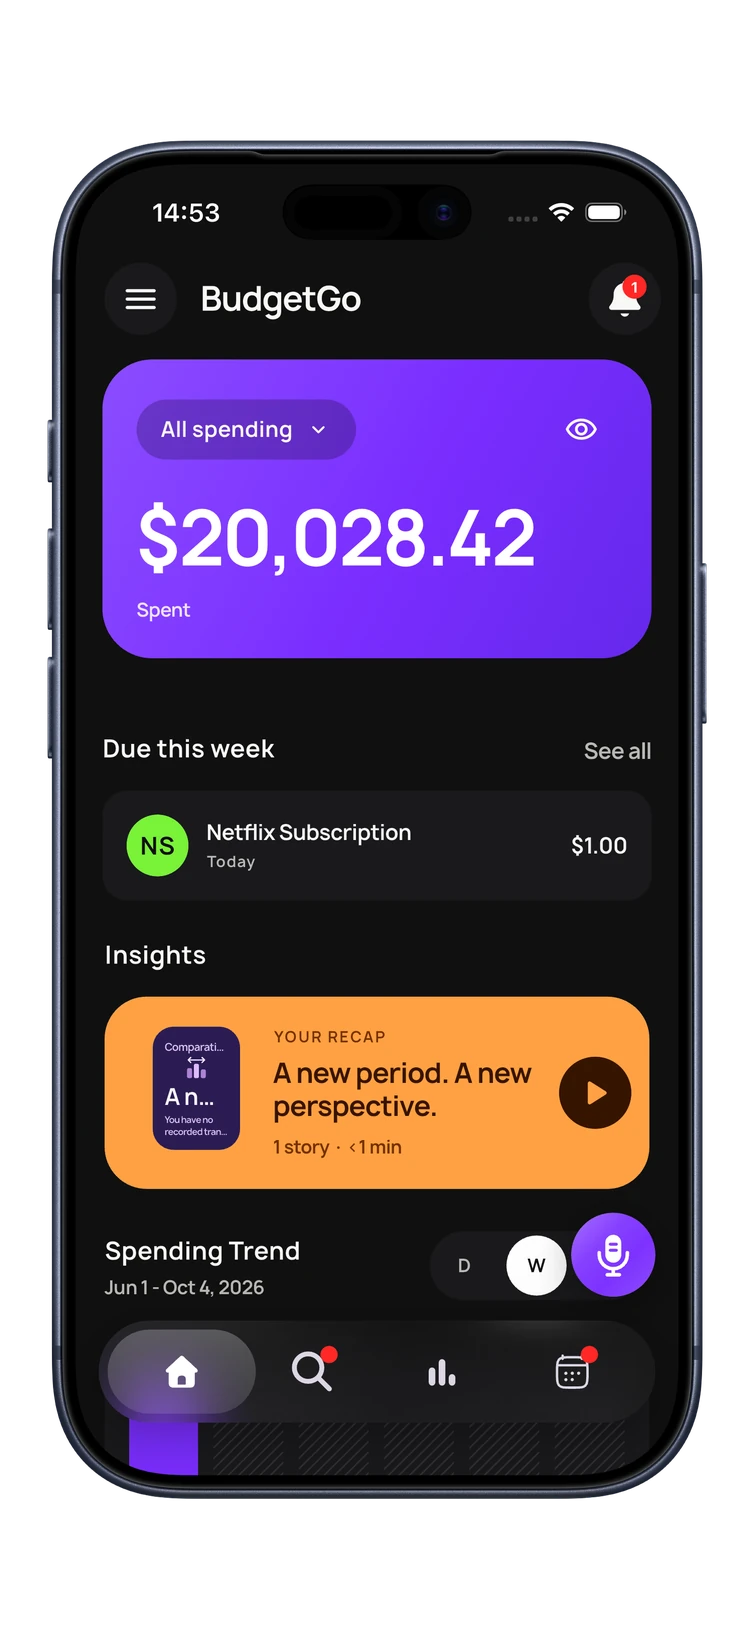
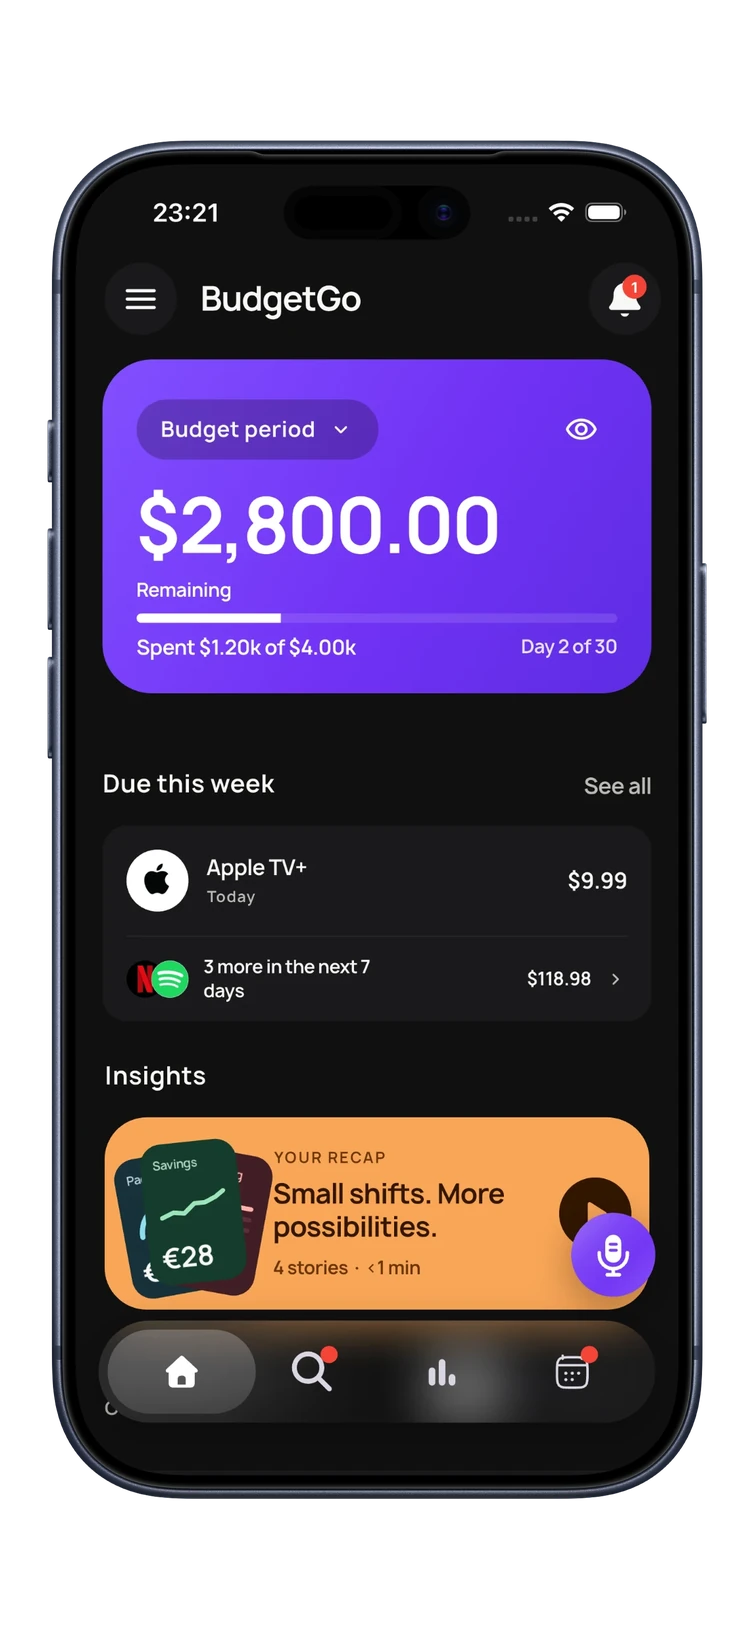
feat: update home, goal story and recurring mockups

diff --git a/index.html b/index.html
@@ -72,8 +72,8 @@
   <div class="hero__stage" data-tilt>
     <div class="hero__fan">
       <img class="fan fan--left" src="src/images/app-live/mockup-analytics.webp" alt="BudgetGo Analytics: spending, forecast, cash flow and top merchants for September" width="754" height="1639" />
-      <img class="fan fan--right" src="src/images/app-live/mockup-story.webp" alt="A BudgetGo insight story comparing this period with the last" width="754" height="1639" />
-      <img class="fan fan--center" src="src/images/app-live/mockup-home.webp" alt="BudgetGo Home: $20,028.42 spent, Netflix due this week, your insights recap and spending trend" width="754" height="1639" fetchpriority="high" />
+      <img class="fan fan--right" src="src/images/app-live/mockup-story.webp" alt="A BudgetGo goal progress story: Look how far you've come, 85 more toward a New Laptop goal" width="754" height="1639" />
+      <img class="fan fan--center" src="src/images/app-live/mockup-home.webp" alt="BudgetGo Home: $2,800.00 remaining of a $4,000 budget on day 2 of 30, Apple TV+ due today, and your insights recap" width="754" height="1639" fetchpriority="high" />
     </div>
   </div>
 </section>
@@ -310,7 +310,7 @@
     </div>
     <div class="due__stage">
       <div class="iphone iphone--due">
-        <img src="src/images/app-live/mockup-recurring.webp" alt="BudgetGo Recurring: upcoming payments grouped by due date with filters" width="754" height="1639" loading="lazy" />
+        <img src="src/images/app-live/mockup-recurring.webp" alt="BudgetGo Recurring: $128.97 total for October, with Apple TV+, Netflix, Spotify and ChatGPT Plus due today" width="754" height="1639" loading="lazy" />
       </div>
     </div>
   </div>
